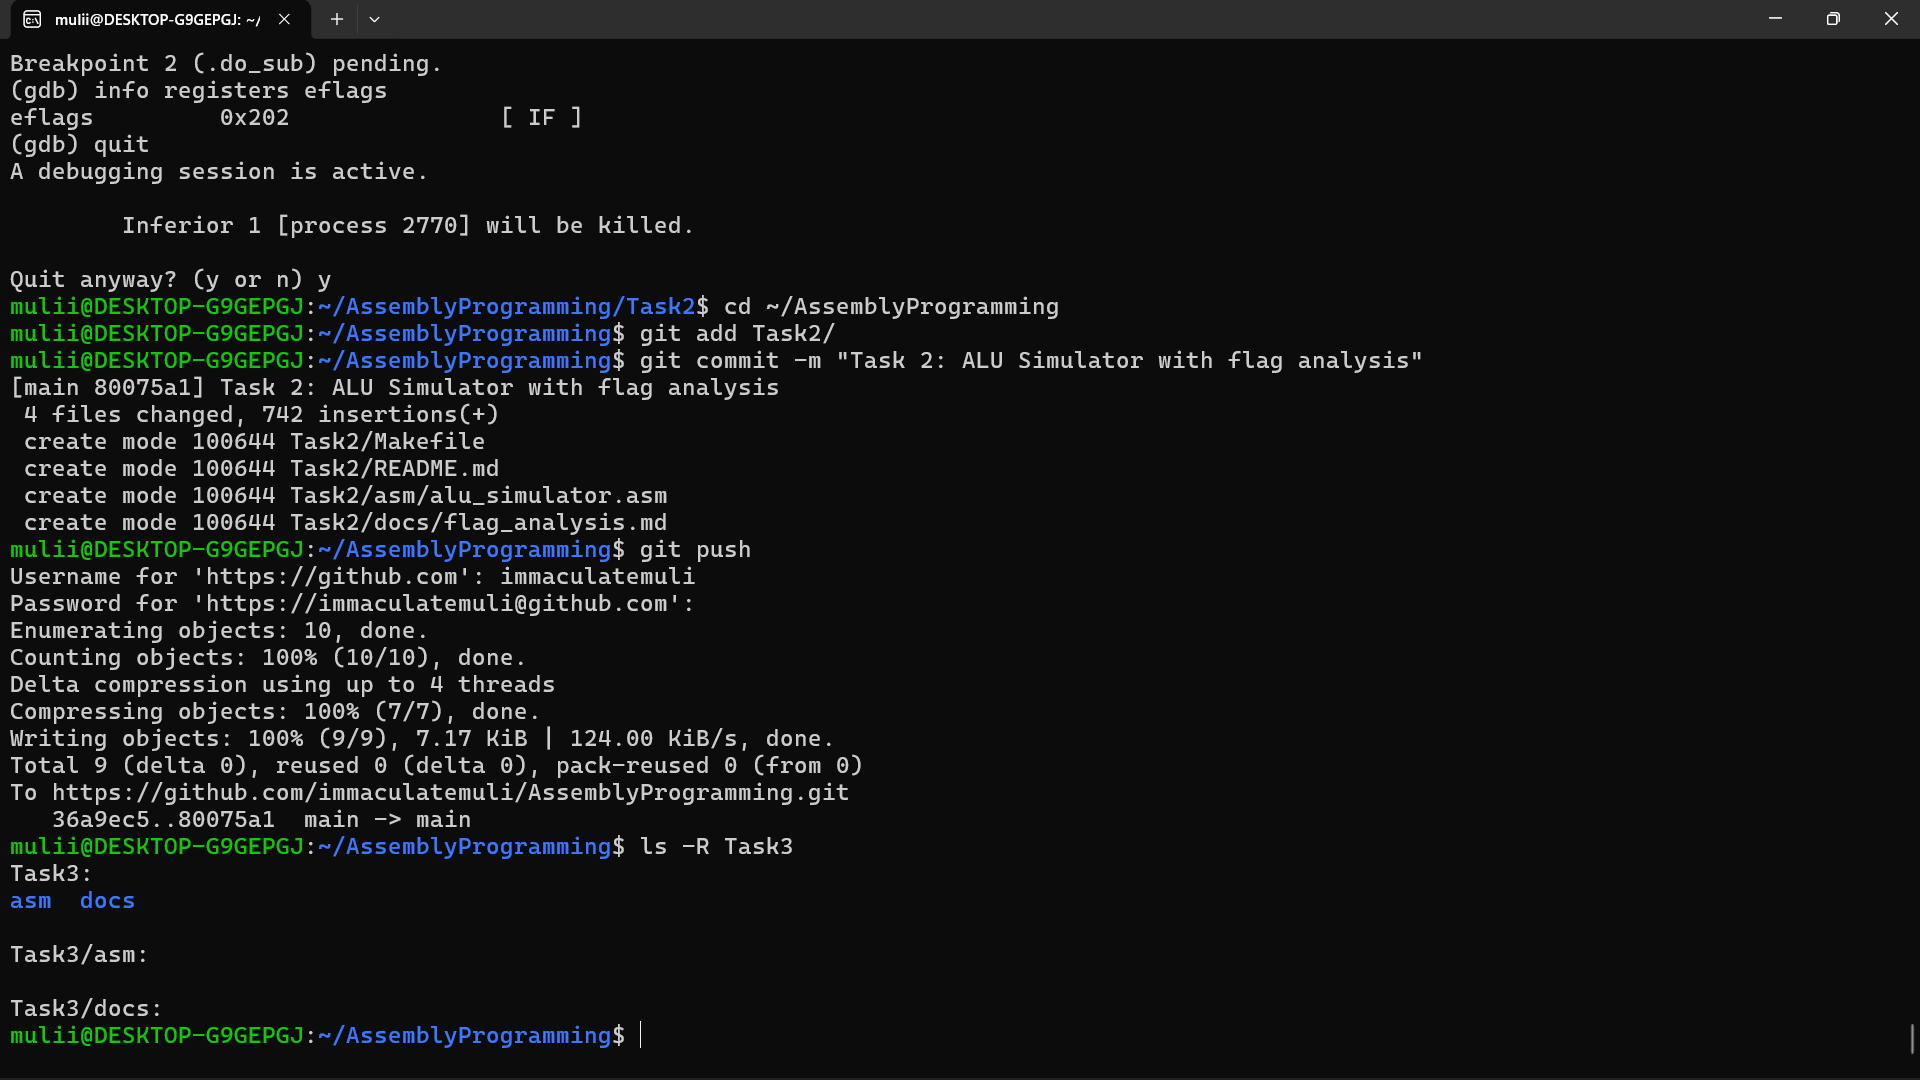
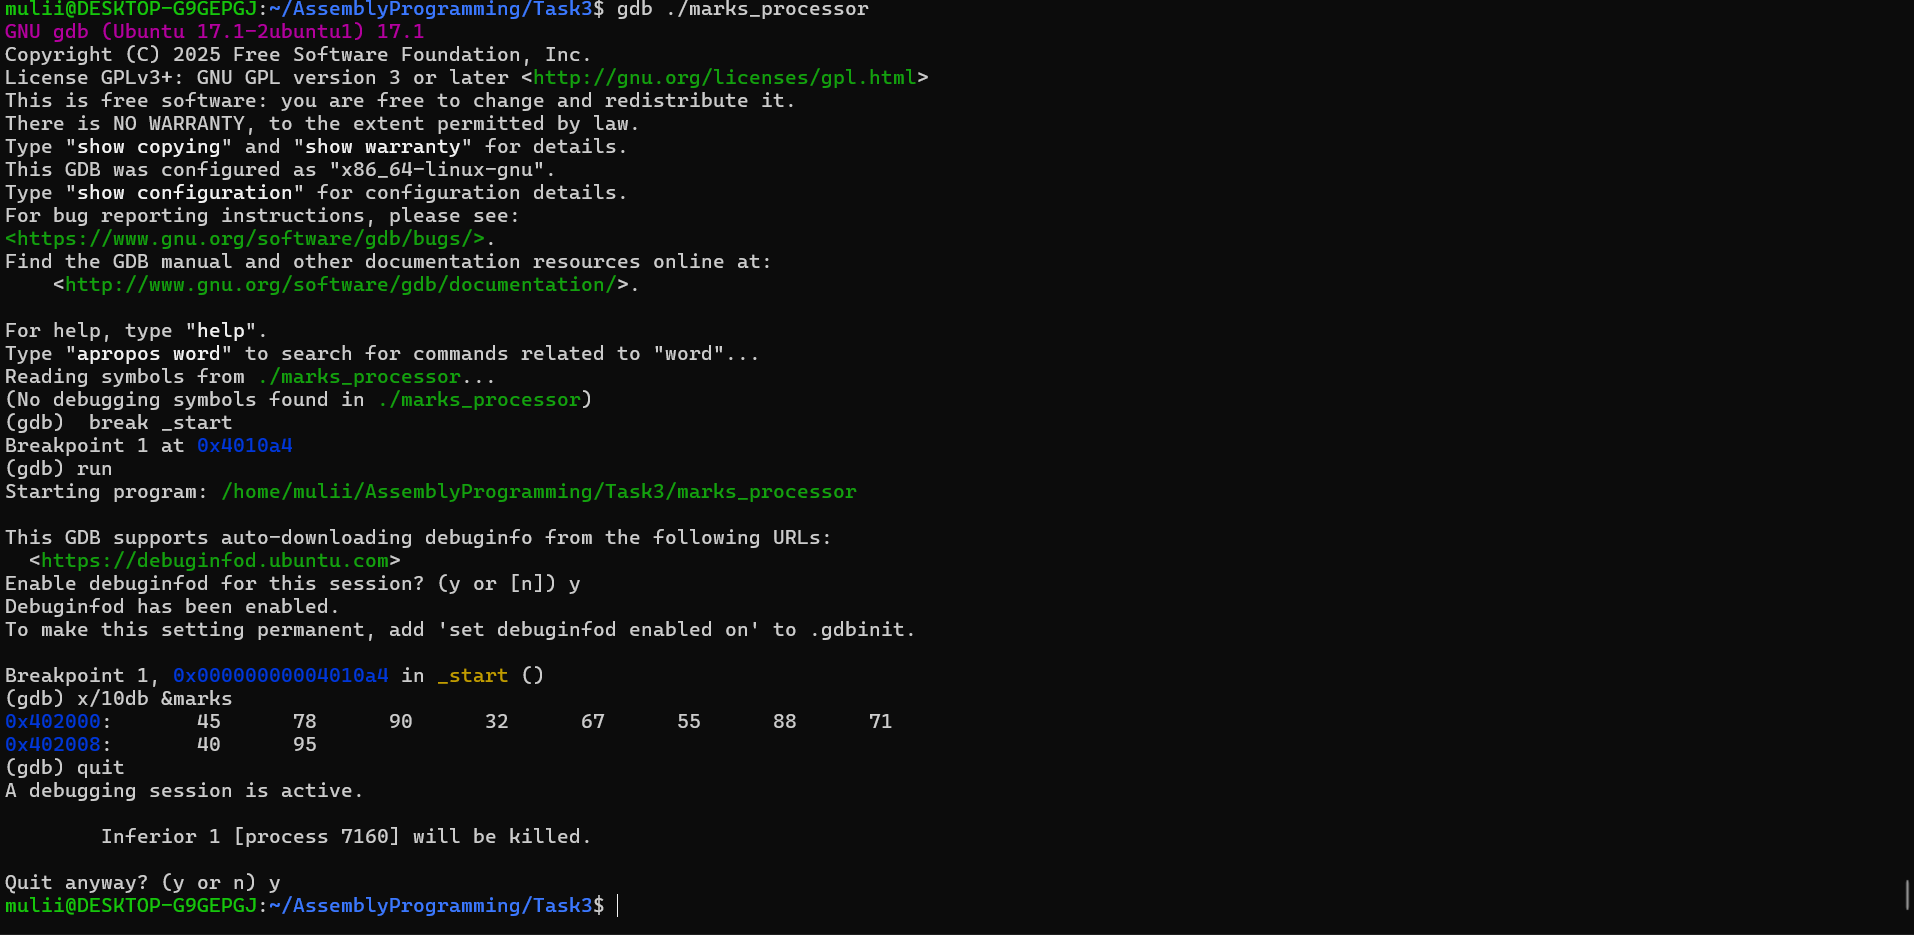
Task 3: Add correct screenshots to README

Changed region(s): [[0.0, 0.0, 1.0, 0.8995], [0.0, 0.9305, 0.3391, 0.9925]]

diff --git a/Task3/README.md b/Task3/README.md
@@ -166,10 +166,9 @@ Shows successful assembly and linking of marks_processor.asm
 ![Build Output](screenshots/make_build.png)
 
 ### 2. Marks Processor Output
-Shows total, average, highest, lowest and classifications
+Shows total=661, average=66, highest=95, lowest=32 and classifications
 ![Marks Output](screenshots/marks_output.png)
 
 ### 3. GDB Memory Inspection
 Shows all 10 marks in memory and classification registers
 ![GDB Memory](screenshots/gdb_memory.png)
-
